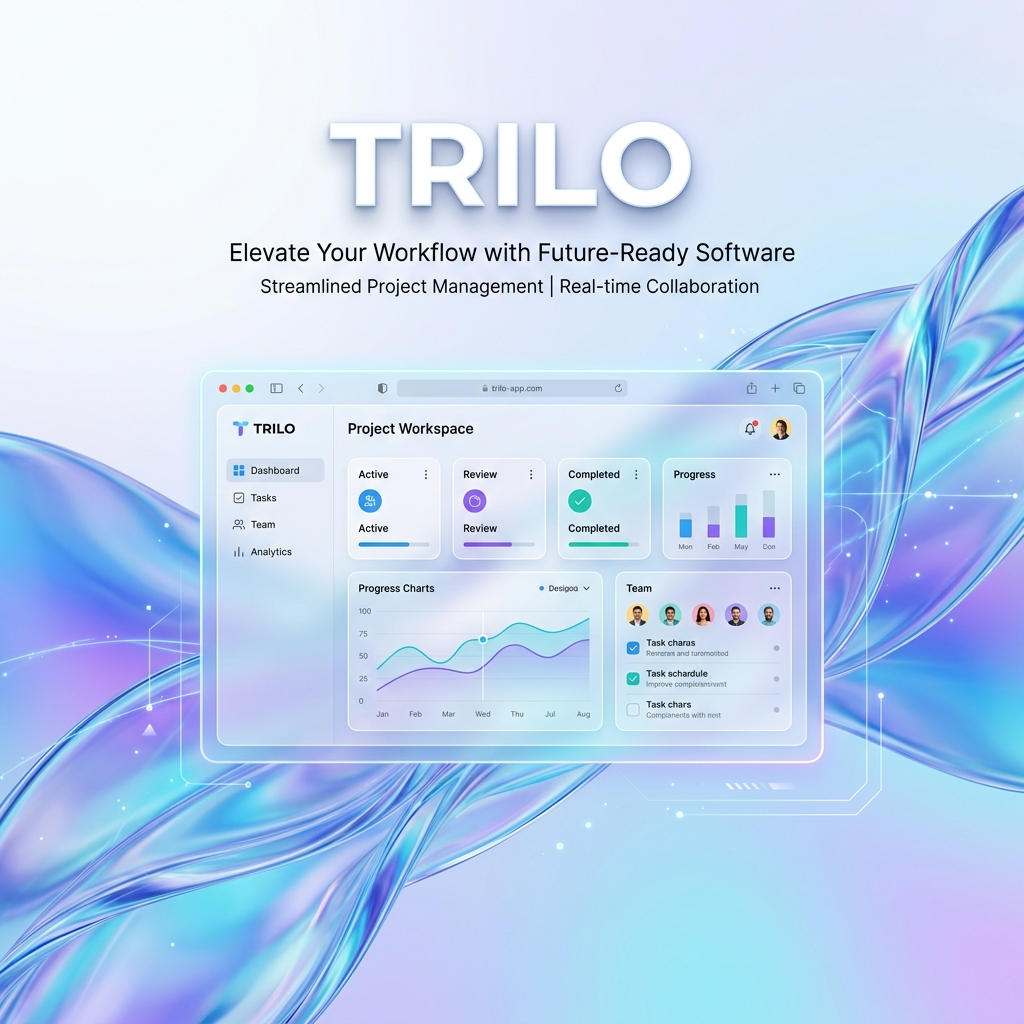
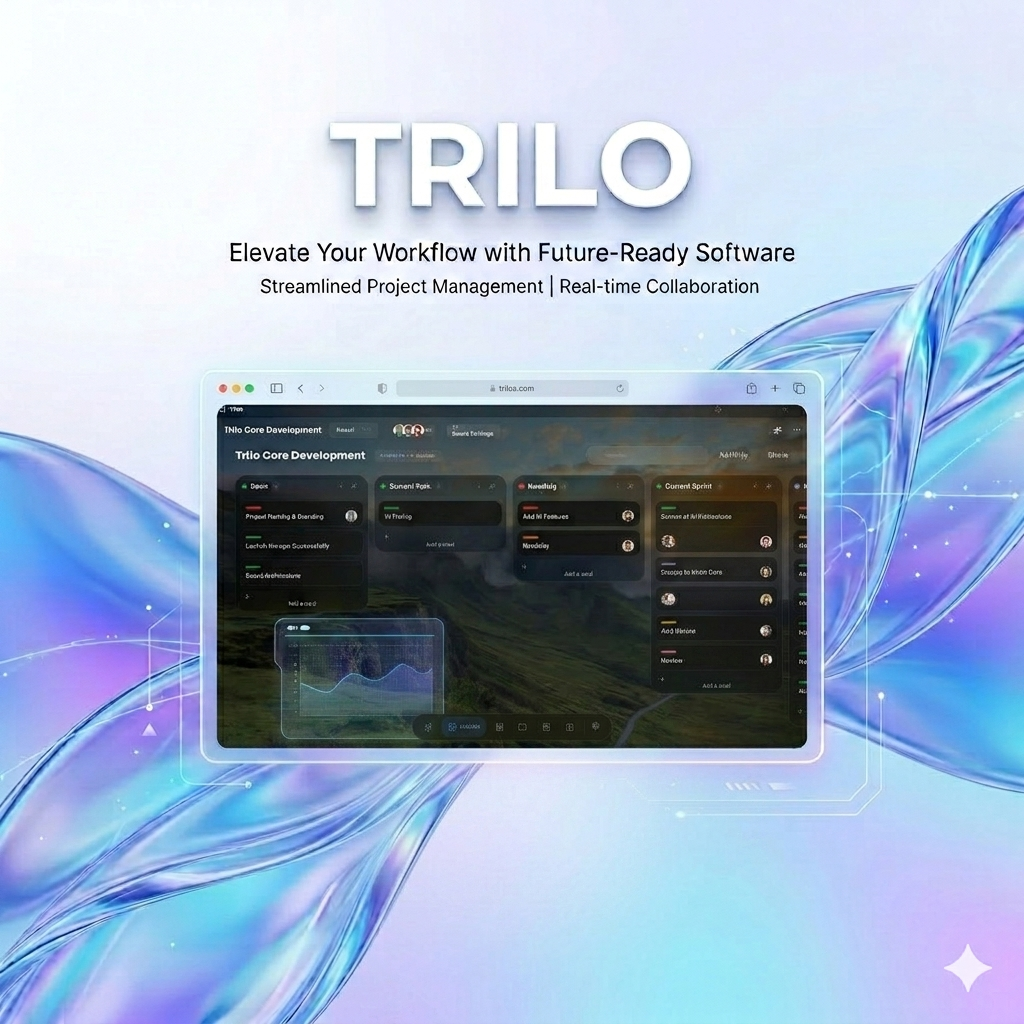
chore: remove demo data and prepare for production use

diff --git a/src/app/page.tsx b/src/app/page.tsx
@@ -62,7 +62,7 @@ export default function Home() {
   const [selectedBoardId, setSelectedBoardId] = useState<string | null>(null);
   const [bgIndex, setBgIndex] = useState(0);
   const [boardBgIndex, setBoardBgIndex] = useState<number | null>(null);
-  const [userName, setUserName] = useState('Alexander');
+  const [userName, setUserName] = useState('User');
   const [boards, setBoards] = useState<any[]>([]);
   const [currentBoardData, setCurrentBoardData] = useState<any>(null);
   const {isOpen, onOpen, onOpenChange} = useDisclosure();
@@ -377,7 +377,7 @@ export default function Home() {
             <Button isIconOnly variant="light" size="sm" className="text-white/60 hover:text-white h-8 w-8 min-w-0">
               <Bell size={16} />
             </Button>
-            <Avatar size="sm" src="https://i.pravatar.cc/150?u=a042581f4e29026704d" className="w-6 h-6 ml-1 cursor-pointer" />
+            <Avatar size="sm" icon={<User size={14} />} className="w-6 h-6 ml-1 cursor-pointer bg-white/10" />
             
             <div className="h-4 w-[1px] bg-white/10 mx-2" />
             
@@ -389,7 +389,7 @@ export default function Home() {
         <div className="h-14 px-6 flex items-center justify-between z-30">
           <div className="flex items-center gap-4">
             <h1 className="text-lg font-bold text-white">
-              {activeTab === 'home' ? 'Home' : activeTab === 'settings' ? 'Settings' : activeTab === 'switch' ? 'Board Gallery' : activeTab === 'dual' ? 'Split View' : (currentBoardData?.title || 'Trilo Core Development')}
+              {activeTab === 'home' ? 'Home' : activeTab === 'settings' ? 'Settings' : activeTab === 'switch' ? 'Board Gallery' : activeTab === 'dual' ? 'Split View' : (currentBoardData?.title || 'Board')}
             </h1>
             {activeTab === 'board' && (
               <>
@@ -401,14 +401,7 @@ export default function Home() {
                     <ChevronRight size={14} className="rotate-90 opacity-50" />
                   </Button>
                 </div>
-                <div className="flex items-center -space-x-2 ml-4">
-                  {[1, 2, 3].map(i => (
-                    <Avatar key={i} size="sm" className="w-7 h-7 border-2 border-black/20" src={`https://i.pravatar.cc/150?u=${i}`} />
-                  ))}
-                  <Button isIconOnly size="sm" className="w-7 h-7 min-w-0 rounded-full bg-white/10 text-white/80 text-[10px]">
-                    +12
-                  </Button>
-                </div>
+
                 <Button 
                   size="sm" 
                   variant="flat" 

diff --git a/src/components/SwitchBoardView.tsx b/src/components/SwitchBoardView.tsx
@@ -168,11 +168,7 @@ export default function SwitchBoardView({ onSelectBoard, onCreateBoard }: {
                     </div>
                     <div className="flex items-center justify-between">
                       <div className="flex -space-x-1.5">
-                        {[1, 2, 3].map(i => (
-                          <div key={i} className="w-5 h-5 rounded-full border border-black/40 bg-white/10 overflow-hidden">
-                            <img src={`https://i.pravatar.cc/150?u=${board.id}${i}`} className="w-full h-full object-cover" alt="User avatar" />
-                          </div>
-                        ))}
+                        {/* Member avatars would go here */}
                       </div>
                       <div className="flex items-center gap-1 text-white/40 group-hover:text-white/80 transition-colors">
                         <Layout size={12} />

diff --git a/backend/main.py b/backend/main.py
@@ -109,31 +109,8 @@ def init_db():
     ''')
     conn.commit()
 
-    # Check if data exists, if not insert initial
-    cursor.execute("SELECT COUNT(*) FROM boards")
-    if cursor.fetchone()[0] == 0:
-        # Create a default board
-        board_id = 'board-default'
-        cursor.execute("INSERT INTO boards (id, title, bg_gradient) VALUES (?, ?, ?)", 
-                       (board_id, 'Trilo Core Development', 'from-blue-600/40 to-indigo-900/40'))
-        
-        initial_cols = [
-            ('col-1', board_id, 'Done', 'bg-emerald-500', 0),
-            ('col-2', board_id, 'Current Task', 'bg-amber-500', 1),
-            ('col-3', board_id, 'Awaiting', 'bg-red-500', 2),
-            ('col-4', board_id, 'Unable To add', 'bg-gray-400', 3)
-        ]
-        cursor.executemany("INSERT OR IGNORE INTO columns (id, board_id, title, dot_color, position) VALUES (?, ?, ?, ?, ?)", initial_cols)
-        
-        initial_tasks = [
-            ('task-1', 'col-1', 'Project Naming & Branding', 'bg-red-500', 0),
-            ('task-2', 'col-1', 'Launch the app Successfully', 'bg-green-500', 1),
-            ('task-3', 'col-1', 'Board Architecture', 'bg-green-500', 2),
-            ('task-4', 'col-2', 'UI Tuning', 'bg-emerald-500', 0),
-            ('task-5', 'col-3', 'Add AI Features', 'bg-red-500', 0),
-            ('task-6', 'col-3', 'flexibility', 'bg-orange-500', 1),
-        ]
-        cursor.executemany("INSERT OR IGNORE INTO tasks (id, column_id, content, priority_color, position) VALUES (?, ?, ?, ?, ?)", initial_tasks)
+    # Check if data exists - Removed demo data initialization for production-ready state
+    pass
         
     conn.commit()
     conn.close()